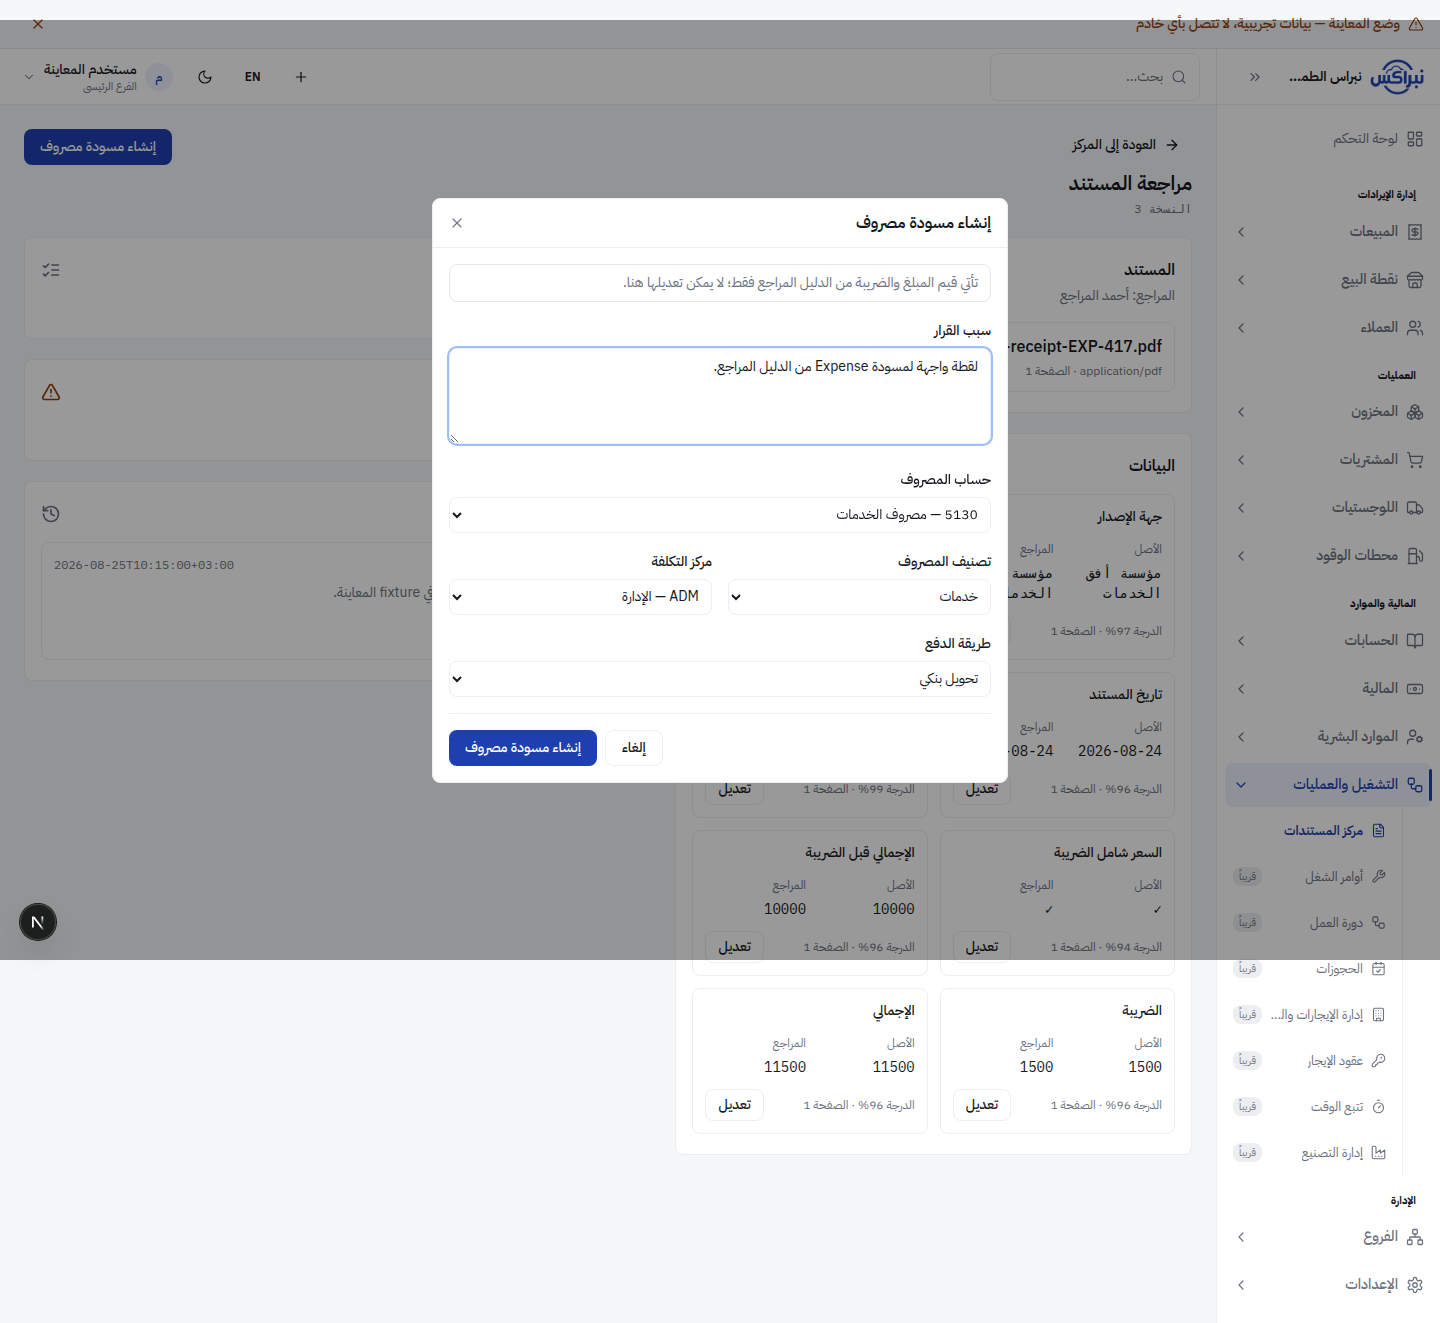
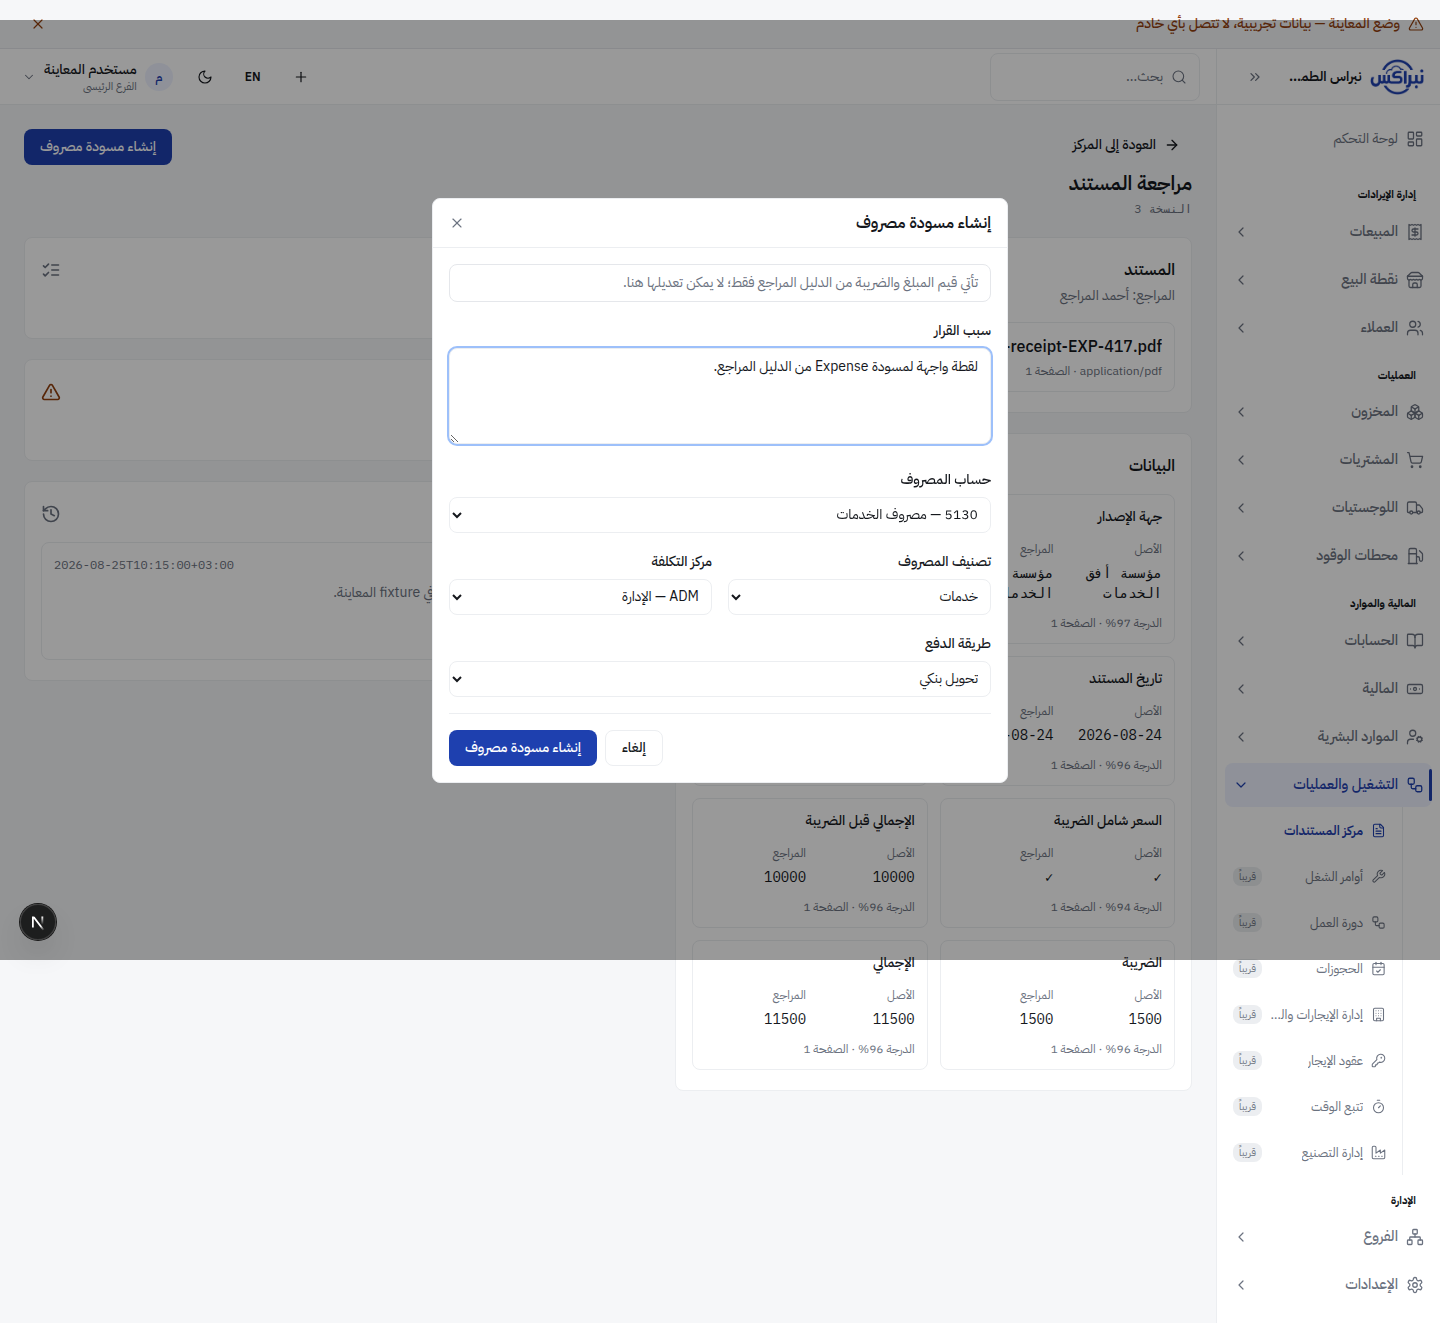
تجميد مراجعة المستند بعد إنشاء المسودة
يمنع أوامر تعديل الدليل والمطابقات والمشكلات وإكمال المراجعة خارج needs_review، ويقصر تنبيه الجاهزية على المرحلة القابلة للتعديل. تبقى ready_for_draft لإنشاء المسودة فقط، وتبقى draft_created للعرض الآمن والرابط والسجل فقط.

يصنف حوار الأمر صراحة بين review وdraft كي لا يحجب إنشاء Purchase المشروع في ready_for_draft ولا يبقى حوار طفرة مراجعة مفتوحًا بعد تغير الحالة. أضيفت اختبارات مشتقات الحالة وPlaywright ولقطة draft_created المتحققة برمجيًا.

التحقق: php artisan test = 1451 ناجحًا و1 متخطى؛ npm run test = 328 ناجحًا؛ npm run test:e2e -- document-review.spec.ts = 6 ناجحة؛ npx tsc --noEmit وبناء Next.js المقيد بالذاكرة ناجحان.

لا تغيير في ExpenseService أو الحسابات أو migration أو إعدادات شبكة المزود أو التخزين أو النشر.

diff --git a/web/src/app/(app)/documents/[id]/page.tsx b/web/src/app/(app)/documents/[id]/page.tsx
@@ -17,7 +17,14 @@ import {
   documentFieldTranslationKey,
   reviewHasVisibleBlocker,
 } from '@/lib/document-review';
-import { canBuildDocumentDraft, linkedTransactionPresentation, type LinkedTransaction } from '@/lib/document-review-access';
+import {
+  canBuildDocumentDraft,
+  canMutateDocumentReview,
+  isDocumentReviewMutable,
+  linkedTransactionPresentation,
+  shouldShowReviewReadinessBlocker,
+  type LinkedTransaction,
+} from '@/lib/document-review-access';
 
 type ReviewFile = {
   id: string;
@@ -97,6 +104,7 @@ type Command = {
   title: string;
   label: string;
   endpoint: string;
+  scope: 'review' | 'draft';
   payload?: Record<string, unknown>;
 } | null;
 
@@ -180,7 +188,13 @@ export default function DocumentReviewPage() {
   }
 
   const canReview = review.capabilities.review;
-  const canComplete = canReview && review.batch.status === 'needs_review' && !hasVisibleBlocker;
+  const isReviewMutable = isDocumentReviewMutable(review.batch.status);
+  const canMutateReview = canMutateDocumentReview({ canReview, status: review.batch.status });
+  const canComplete = canMutateReview && !hasVisibleBlocker;
+  const showReadinessBlocker = shouldShowReviewReadinessBlocker({
+    isReviewMutable,
+    canComplete,
+  });
   const linkedTransaction = review.linked_transaction ?? review.linked_purchase;
   const canBuildDraft = canBuildDocumentDraft({
     canBuildDraft: review.capabilities.build_draft,
@@ -202,7 +216,8 @@ export default function DocumentReviewPage() {
         title: t('completeReview'),
         label: t('completeReview'),
         endpoint: `/document-batches/${id}/complete-review`,
-      })}
+        scope: 'review',
+        })}
     >
       <ShieldCheck className="h-4 w-4" aria-hidden="true" />
       {t('completeReview')}
@@ -238,6 +253,7 @@ export default function DocumentReviewPage() {
           title: t('createPurchaseDraft'),
           label: t('createPurchaseDraft'),
           endpoint: `/document-batches/${id}/create-purchase-draft`,
+          scope: 'draft',
         })}
     >
       {review.batch.document_type === 'expense' ? t('createExpenseDraft') : t('createPurchaseDraft')}
@@ -319,9 +335,11 @@ export default function DocumentReviewPage() {
                         {confidence !== null ? t('score', { score: confidence }) : '—'}
                         {field.page ? ` · ${t('page', { page: field.page })}` : ''}
                       </span>
-                      <Button size="sm" variant="outline" onClick={() => setEdit(field)} disabled={!canReview} title={!canReview ? t('notAllowed') : undefined}>
-                        {t('edit')}
-                      </Button>
+                      {canMutateReview && (
+                        <Button size="sm" variant="outline" onClick={() => setEdit(field)}>
+                          {t('edit')}
+                        </Button>
+                      )}
                     </div>
                   </div>
                 );
@@ -365,39 +383,43 @@ export default function DocumentReviewPage() {
                         </div>
                         <div className="flex items-center gap-2">
                           <Badge tone={candidate.is_active ? 'neutral' : 'muted'}>{t('score', { score: confidencePercentage(candidate.score_basis_points) ?? 0 })}</Badge>
-                          <Button
-                            size="sm"
-                            onClick={() => setCommand({
-                              title: t('confirm'),
-                              label: t('confirm'),
-                              endpoint: `/document-match-results/${match.id}/confirm`,
-                              payload: { candidate_id: candidate.id },
-                            })}
-                            disabled={!canReview || !candidate.is_active}
-                            title={!candidate.is_active ? t('inactiveCandidate') : !canReview ? t('notAllowed') : undefined}
-                          >
-                            {t('confirm')}
-                          </Button>
+                          {canMutateReview && (
+                            <Button
+                              size="sm"
+                              onClick={() => setCommand({
+                                title: t('confirm'),
+                                label: t('confirm'),
+                                endpoint: `/document-match-results/${match.id}/confirm`,
+                                scope: 'review',
+                                payload: { candidate_id: candidate.id },
+                              })}
+                              disabled={!candidate.is_active}
+                              title={!candidate.is_active ? t('inactiveCandidate') : undefined}
+                            >
+                              {t('confirm')}
+                            </Button>
+                          )}
                         </div>
                       </div>
                     </div>
                   ))}
                 </div>
-                <div className="mt-3">
-                  <Button
-                    size="sm"
-                    variant="outline"
-                    onClick={() => setCommand({
-                      title: t('reject'),
-                      label: t('reject'),
-                      endpoint: `/document-match-results/${match.id}/reject`,
-                    })}
-                    disabled={!canReview}
-                    title={!canReview ? t('notAllowed') : undefined}
-                  >
-                    {t('reject')}
-                  </Button>
-                </div>
+                {canMutateReview && (
+                  <div className="mt-3">
+                    <Button
+                      size="sm"
+                      variant="outline"
+                      onClick={() => setCommand({
+                        title: t('reject'),
+                        label: t('reject'),
+                        endpoint: `/document-match-results/${match.id}/reject`,
+                        scope: 'review',
+                      })}
+                    >
+                      {t('reject')}
+                    </Button>
+                  </div>
+                )}
               </article>
             ))}
           </div>
@@ -435,18 +457,19 @@ export default function DocumentReviewPage() {
                   </div>
                   <div className="mt-3 flex items-center justify-between gap-2">
                     <Badge tone={reviewTone(issue.status)}>{t(issue.status as 'open' | 'resolved')}</Badge>
-                    <Button
-                      size="sm"
-                      onClick={() => setCommand({
-                        title: t(action),
-                        label: t(action),
-                        endpoint,
-                      })}
-                      disabled={!canReview}
-                      title={!canReview ? t('notAllowed') : undefined}
-                    >
-                      {t(action)}
-                    </Button>
+                    {canMutateReview && (
+                      <Button
+                        size="sm"
+                        onClick={() => setCommand({
+                          title: t(action),
+                          label: t(action),
+                          endpoint,
+                          scope: 'review',
+                        })}
+                      >
+                        {t(action)}
+                      </Button>
+                    )}
                   </div>
                 </article>
               );
@@ -498,7 +521,7 @@ export default function DocumentReviewPage() {
         <div className="hidden flex-wrap gap-2 md:flex">{draftButton}{completionButton}</div>
       </header>
 
-      {!canComplete && review.batch.status !== 'ready_for_draft' && (
+      {showReadinessBlocker && (
         <p className="rounded border border-warning/30 bg-warning/10 px-3 py-2 text-sm text-warning">{!canReview ? t('notAllowed') : t('readinessBlocked')}</p>
       )}
 
@@ -534,7 +557,7 @@ export default function DocumentReviewPage() {
         <div className="flex gap-2">{draftButton}{completionButton}</div>
       </div>
 
-      {command && (
+      {command && (command.scope === 'draft' ? canBuildDraft : canMutateReview) && (
         <ReviewCommandDialog
           open
           onClose={() => setCommand(null)}
@@ -586,7 +609,7 @@ export default function DocumentReviewPage() {
         />
       )}
 
-      {edit && (
+      {edit && canMutateReview && (
         <ReviewChangeDialog
           open
           batchId={id}

diff --git a/web/e2e/document-review.spec.ts b/web/e2e/document-review.spec.ts
@@ -91,6 +91,9 @@ test.describe('مسودة Expense في fixture واجهة محلي', () => {
 
     await expect(page.getByRole('heading', { name: 'مراجعة المستند' })).toBeVisible();
     await expect(page.getByRole('button', { name: 'إنشاء مسودة مصروف' })).toBeVisible();
+    await expect(page.getByRole('button', { name: 'تعديل' })).toHaveCount(0);
+    await expect(page.getByRole('button', { name: 'إكمال المراجعة' })).toHaveCount(0);
+    await expect(page.getByText('أكمل المطابقات والمشكلات المانعة قبل إكمال المراجعة.')).toHaveCount(0);
     await page.getByRole('button', { name: 'إنشاء مسودة مصروف' }).click();
 
     await expect(page.getByRole('dialog', { name: 'إنشاء مسودة مصروف' })).toBeVisible();
@@ -102,7 +105,15 @@ test.describe('مسودة Expense في fixture واجهة محلي', () => {
     await page.getByRole('button', { name: 'إنشاء مسودة مصروف' }).last().click();
 
     await expect(page.getByRole('link', { name: /فتح مسودة المصروف EXP-DRAFT-0417/ })).toBeVisible();
+    await expect(page.getByRole('button', { name: 'إنشاء مسودة مصروف' })).toHaveCount(0);
+    await expect(page.getByRole('button', { name: 'تعديل' })).toHaveCount(0);
+    await expect(page.getByRole('button', { name: 'تأكيد' })).toHaveCount(0);
+    await expect(page.getByRole('button', { name: 'رفض' })).toHaveCount(0);
+    await expect(page.getByRole('button', { name: 'حل المشكلة' })).toHaveCount(0);
+    await expect(page.getByRole('button', { name: 'إعادة فتح' })).toHaveCount(0);
+    await expect(page.getByRole('button', { name: 'إعادة التحقق المالي' })).toHaveCount(0);
     await expect(page.getByRole('button', { name: 'إكمال المراجعة' })).toHaveCount(0);
+    await expect(page.getByText('أكمل المطابقات والمشكلات المانعة قبل إكمال المراجعة.')).toHaveCount(0);
     await expect.poll(() => page.evaluate(() => document.documentElement.scrollWidth <= window.innerWidth + 1)).toBeTruthy();
   });
 });

diff --git a/web/src/lib/document-review-access.test.ts b/web/src/lib/document-review-access.test.ts
@@ -2,9 +2,12 @@ import { describe, expect, it } from 'vitest';
 import {
   canBuildDocumentDraft,
   canBuildPurchaseDraft,
+  canMutateDocumentReview,
   canViewDocumentCenter,
+  isDocumentReviewMutable,
   linkedPurchasePresentation,
   linkedTransactionPresentation,
+  shouldShowReviewReadinessBlocker,
 } from './document-review-access';
 
 describe('Document Center sidebar access', () => {
@@ -12,6 +15,27 @@ describe('Document Center sidebar access', () => {
     expect(canViewDocumentCenter(['documents.center.view'], 'staff')).toBe(true);
     expect(canViewDocumentCenter([], 'staff')).toBe(false);
     expect(canViewDocumentCenter(undefined, 'owner')).toBe(true);
+  });
+});
+
+describe('Document review workflow mutability', () => {
+  it('allows review mutations only while the batch is in needs_review and the reviewer is authorized', () => {
+    expect(isDocumentReviewMutable('needs_review')).toBe(true);
+    expect(canMutateDocumentReview({ canReview: true, status: 'needs_review' })).toBe(true);
+    expect(canMutateDocumentReview({ canReview: false, status: 'needs_review' })).toBe(false);
+  });
+
+  it('keeps ready_for_draft and draft_created read-only even for a reviewer', () => {
+    expect(isDocumentReviewMutable('ready_for_draft')).toBe(false);
+    expect(isDocumentReviewMutable('draft_created')).toBe(false);
+    expect(canMutateDocumentReview({ canReview: true, status: 'ready_for_draft' })).toBe(false);
+    expect(canMutateDocumentReview({ canReview: true, status: 'draft_created' })).toBe(false);
+  });
+
+  it('shows the readiness blocker only for a mutable review that is not completable', () => {
+    expect(shouldShowReviewReadinessBlocker({ isReviewMutable: true, canComplete: false })).toBe(true);
+    expect(shouldShowReviewReadinessBlocker({ isReviewMutable: true, canComplete: true })).toBe(false);
+    expect(shouldShowReviewReadinessBlocker({ isReviewMutable: false, canComplete: false })).toBe(false);
   });
 });
 

diff --git a/web/src/lib/document-review-access.ts b/web/src/lib/document-review-access.ts
@@ -7,6 +7,20 @@ export type LinkedTransaction = {
   url: string;
 };
 
+/** لا تقبل خدمة المراجعة أي طفرة خارج مرحلة المراجعة الفعلية. */
+export function isDocumentReviewMutable(status: string): boolean {
+  return status === 'needs_review';
+}
+
+export function canMutateDocumentReview(input: { canReview: boolean; status: string }): boolean {
+  return input.canReview && isDocumentReviewMutable(input.status);
+}
+
+/** يظهر تنبيه الجاهزية فقط عندما تكون المراجعة ما زالت مرحلةً قابلة للتعديل ومحصورةً بعائق. */
+export function shouldShowReviewReadinessBlocker(input: { isReviewMutable: boolean; canComplete: boolean }): boolean {
+  return input.isReviewMutable && !input.canComplete;
+}
+
 export function canViewDocumentCenter(permissions?: string[], role?: string): boolean {
   return permissions?.includes('documents.center.view') ?? ['owner', 'admin'].includes(role ?? '');
 }

diff --git a/docs/intelligent-document-center/screenshots/pr-8-expense-draft/README.md b/docs/intelligent-document-center/screenshots/pr-8-expense-draft/README.md
@@ -9,3 +9,5 @@
 
 - استُبدلت `rtl-mobile-linked-dark.png` بلقطة صحيحة تنشئ رابط Expense داخل سياق الجوال ذاته؛ الرابط والرقم والشارة ظاهرون مع تخطيط RTL داكن بلا تمرير أفقي.
 - `ltr-desktop-linked-dark.png`: واجهة Document Center بالإنجليزية LTR والوضع الداكن؛ يظهر رابط **Open expense draft EXP-DRAFT-0417** وحقول دليل Expense بعناوين إنجليزية، مع بقاء بيانات fixture العربية كبيانات تجريبية فقط.
+
+- `rtl-desktop-draft-created-read-only-light.png`: لقطة تصحيح PR #448 من fixture واجهة محلي بعد الحالة `draft_created`. يظهر رابط **فتح مسودة المصروف EXP-DRAFT-0417** وشارة المسودة والمعاينة الآمنة والسجل؛ لا يظهر تنبيه «أكمل المطابقات…» ولا زر إنشاء/تعديل/تأكيد/رفض/حل/إعادة تحقق/إكمال مراجعة. تحقق السكربت من هذه الغيابات قبل الالتقاط؛ اللقطة دليل واجهة محلي وليست اتصال Laravel E2E.
